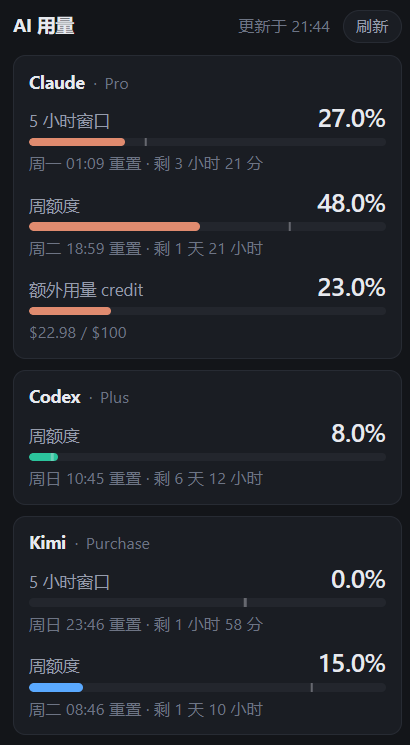
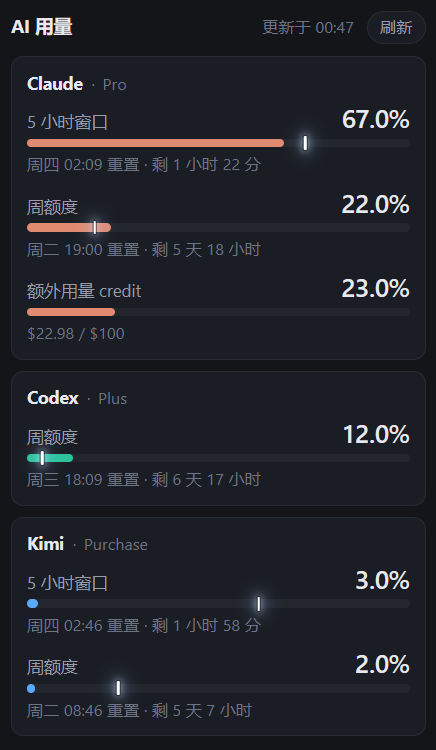
feat(web): 节奏刻度改成发光指针，并在 README 里挑明它是主功能
节奏刻度是整个面板存在的理由，却是 opacity: 0.34 的一根 2px 细线——最该
被拿来对比的东西反而最难看清。现在：芯不透明、两端各探出条外 2px 像卡尺
刻线，一圈贴身描边保证压在品牌色填充上不糊，外面两层 box-shadow 散成光晕，
深色下是真发光、浅色下是抬起来的投影。

几个刻意的取舍：
- 仍用墨色而非红色。红在这个面板里已经专指「用量 ≥90%」，再来一个含义
  不同的红，两个信号都会变钝。
- 深色下的描边压得很淡。那里芯与背景本就极限对比，描边太重会卡在芯和
  光晕中间把辉光掐断。
- 没有加脉冲动画。常驻小窗里余光有东西一直动很累人。
- .bar 不再写 overflow: hidden，否则探出和光晕会被整个裁掉；填充自带满
  圆角，本来也溢不出去。这条在 CSS 里留了注释，别改回去。

顺带修一个会让上面这些改动「看起来没生效」的问题：静态资源补上
Cache-Control: no-cache。面板是常驻的 Chrome --app 窗口，会直接吃内存缓存、
普通刷新都不回源，导致样式明明已经在磁盘上、HTTP 响应也对，窗口里就是不变。
回环地址上缓存静态文件本来也没什么好省的。

README（中英双份）把「节奏刻度」从解释细节改成明确的功能主张，加了健康/
超支两种情况的对照图。截图也换成带发光刻度的新版——新图正好抓到 Claude
的 5 小时条没够到刻度、周额度条已经越过，同一个账号两个相反结论，而光看
百分比（67% 和 22%）判断恰好是反的，README 现在就从这个对比开讲。

测试 69 全绿。

diff --git a/web/style.css b/web/style.css
@@ -16,7 +16,10 @@
   --fill: #5b6ee8;       /* 正常档兜底：冷静的靛蓝（各家用下面的品牌色覆写） */
   --fill-warn: #c98229;  /* ≥70% */
   --fill-danger: #cf4d63;/* ≥90% */
-  --pace: #1b1d23;
+  --pace: #0e1015;                          /* 刻度的芯，比正文再深一点 */
+  --pace-rim: rgba(255, 255, 255, 0.95);    /* 贴身描边：压在品牌色填充上也不糊 */
+  --pace-halo: rgba(14, 16, 21, 0.42);      /* 内层光晕（浅色下是投影，不是发光） */
+  --pace-halo-soft: rgba(14, 16, 21, 0.20); /* 外层光晕，散得更开 */
   --focus: #5b6ee8;
 
   --radius: 10px;
@@ -43,7 +46,13 @@
     --fill: #8b96f2;
     --fill-warn: #dda44f;
     --fill-danger: #e6788c;
-    --pace: #e7e9ee;
+    /* 深色下才是真发光：芯拉到纯白，光晕带一丝冷调，像自己在亮。
+       描边刻意压到很淡——深色下芯与背景本就极限对比，描边太重反而会卡在
+       芯和光晕中间把辉光掐断，只需留一点点压住品牌色填充即可。 */
+    --pace: #ffffff;
+    --pace-rim: rgba(10, 12, 16, 0.45);
+    --pace-halo: rgba(216, 231, 255, 0.62);
+    --pace-halo-soft: rgba(148, 190, 255, 0.34);
     --focus: #8b96f2;
   }
 
@@ -219,12 +228,13 @@ main {
 }
 
 /* 进度条：轨道 + 填充 + 节奏刻度 */
+/* 注意：这里刻意不写 overflow: hidden——节奏刻度要探出条外、还要向外发光，
+   一旦裁剪就全没了。填充自己带满圆角，本来也溢不出去。 */
 .bar {
   position: relative;
   height: 7px;
   border-radius: 999px;
   background: var(--track);
-  overflow: hidden;
 }
 
 .bar-fill {
@@ -242,17 +252,23 @@ main {
   background: var(--fill-danger);
 }
 
-/* 节奏刻度：时间窗口已过去的比例。
-   填充越过它 = 消耗快于额度回补速度。 */
+/* 节奏刻度：时间窗口已过去的比例。填充越过它 = 消耗快于额度回补速度。
+   整个面板唯一一处张扬的地方——它是拿来"对比"的，看不清就没有意义：
+   芯不透明、两端各探出 2px 像卡尺的刻线，三层 box-shadow 从贴身描边散成光晕。
+   颜色仍用墨色而非红色：红在这个面板里已经专指"用量 ≥90%"，
+   再来一个含义不同的红会让信号打架。 */
 .pace {
   position: absolute;
-  top: -1px;
-  bottom: -1px;
+  top: -2px;
+  bottom: -2px;
   width: 2px;
   border-radius: 1px;
   background: var(--pace);
-  opacity: 0.34;
   transform: translateX(-1px);
+  box-shadow:
+    0 0 0 1px var(--pace-rim),
+    0 0 6px 1px var(--pace-halo),
+    0 0 14px 4px var(--pace-halo-soft);
 }
 
 .window-reset {

diff --git a/server/main.py b/server/main.py
@@ -124,7 +124,15 @@ def create_app(cfg: Config | None = None) -> FastAPI:
             await poller.refresh(None)
         return summary_payload()
 
-    app.mount("/static", StaticFiles(directory=WEB_DIR), name="static")
+    # 面板是常驻窗口，改完样式要能立刻看见。Chrome 的 --app 窗口会直接吃内存缓存、
+    # 普通刷新都不回源，所以显式要求每次都revalidate——本来就是回环地址，不费什么。
+    class NoCacheStatic(StaticFiles):
+        def file_response(self, *args, **kwargs):
+            resp = super().file_response(*args, **kwargs)
+            resp.headers["Cache-Control"] = "no-cache"
+            return resp
+
+    app.mount("/static", NoCacheStatic(directory=WEB_DIR), name="static")
     return app
 
 

diff --git a/README.md b/README.md
@@ -17,23 +17,43 @@ reads all three and puts them in one always-there panel.
 
 <p align="center">
   <img src="docs/panel-dark.png" width="380"
-       alt="The ai-usage panel in dark mode: three cards, one per provider. Claude Pro shows a 5-hour window at 27%, weekly at 48%, and a $22.98/$100 extra-credit pool at 23%. Codex Plus shows weekly at 8%. Kimi shows a 5-hour window at 0% and weekly at 15%. Each bar carries a faint vertical tick marking how much of the time window has elapsed.">
+       alt="The ai-usage panel in dark mode: three cards, one per provider. Claude Pro shows a 5-hour window at 67%, weekly at 22%, and a $22.98/$100 extra-credit pool at 23%. Codex Plus shows weekly at 12%. Kimi shows a 5-hour window at 3% and weekly at 2%. Each bar carries a glowing vertical tick marking how much of the time window has elapsed: Claude's 5-hour bar stops short of its tick, while its weekly bar has crossed it.">
 </p>
 
 > The UI is currently Chinese-only. See [Status](#status).
 
-Every bar above sits to the left of its tick, which means all three have room to spare.
-That tick is the thing worth explaining.
+Look at Claude in that shot. The 5-hour bar stops short of its tick, so there is room to
+keep working. The weekly bar has edged past its own tick, so that budget is running ahead
+of schedule. Same account, same moment, two different answers — and the percentages alone
+(67% and 22%) would have told you the opposite. That tick is the thing worth explaining.
 
 ## The pace tick
 
-That thin vertical line is the whole point. It marks **how much of the time window has
-already elapsed**.
+**This is the feature.** Everything else in this repo is plumbing that exists to draw it.
 
-If your usage bar is to the left of it, you're spending slower than the window refills and
-you can keep going. If the bar crosses it, you're on track to run out early. A plain
-percentage tells you what you spent. The pace tick tells you whether you can keep spending
-it that way — which is the question you actually have at 2pm on a Wednesday.
+That glowing vertical line marks **how much of the time window has already elapsed**. You
+read your usage bar against it:
+
+```
+weekly   ███████████████████░░░░░░░░░░░┃░░░░░░░░░   48% used, 78% of the week gone
+                                                    left of the tick — room to spare
+
+5-hour   █████████████┃██████████░░░░░░░░░░░░░░░░   61% used, 34% of the window gone
+                                                    past the tick — burning it early
+```
+
+Left of the tick, you are spending slower than the window refills and you can keep going.
+Past it, you are on track to run out before the reset — and the further past, the earlier
+you hit the wall.
+
+A plain percentage tells you what you have spent. The pace tick tells you whether you can
+keep spending it that way, which is the question you actually have at 2pm on a Wednesday.
+
+It is drawn as a lit needle that overshoots the bar at both ends, with a contrast rim so it
+stays crisp where it crosses the coloured fill. That is the one loud thing in an otherwise
+restrained panel, on purpose: a marker you have to squint at is a marker you will not use.
+It stays ink-coloured rather than red, because red already means "≥90% used" here and a
+second red with a different meaning would blunt both.
 
 ## What it does not do
 

diff --git a/docs/README.zh-CN.md b/docs/README.zh-CN.md
@@ -16,18 +16,35 @@
 
 <p align="center">
   <img src="panel-dark.png" width="380"
-       alt="深色模式下的 ai-usage 面板：三张卡片各对应一家。Claude Pro 的 5 小时窗口 27%、周额度 48%、额外用量 credit 23%（$22.98 / $100）；Codex Plus 周额度 8%；Kimi 的 5 小时窗口 0%、周额度 15%。每根进度条上都有一道浅色竖线，标出时间窗口已经过去的比例。">
+       alt="深色模式下的 ai-usage 面板：三张卡片各对应一家。Claude Pro 的 5 小时窗口 67%、周额度 22%、额外用量 credit 23%（$22.98 / $100）；Codex Plus 周额度 12%；Kimi 的 5 小时窗口 3%、周额度 2%。每根进度条上都有一道发光竖线，标出时间窗口已经过去的比例：Claude 的 5 小时条还没够到刻度，周额度条则已经越过。">
 </p>
 
-上图里每根条都落在自己那道竖线左边，说明三家都还有余量。那道竖线才是重点。
+看上图里的 Claude：5 小时窗口那根条还没够到刻度，说明还能接着用；周额度那根却已经越过了
+自己的刻度，说明这笔预算花超前了。同一个账号、同一时刻，两个相反的结论——而光看百分比
+（67% 和 22%）你得到的判断恰好是反的。那道竖线才是重点。
 
 ## 节奏刻度
 
-那道细竖线是这个面板存在的理由。它标出的是**时间窗口已经过去了多少**。
+**这就是这个面板的功能本体**，仓库里其余部分都是为了把它画出来而存在的管道。
 
-用量条落在它左边，说明你花得比额度回补更慢，可以继续用；越过它，说明照这个速度会提前
-用完。光看百分比只能知道「我用了多少」，节奏刻度回答的是「我还能不能这么用」——
-周三下午两点你真正想知道的是后面这个问题。
+那道发着光的竖线标出的是**时间窗口已经过去了多少**。用量条要拿它当尺子来读：
+
+```
+周额度   ███████████████████░░░░░░░░░░░┃░░░░░░░░░   用了 48%，这周过去了 78%
+                                                    落在刻度左边——还有余量
+
+5 小时   █████████████┃██████████░░░░░░░░░░░░░░░░   用了 61%，窗口才过去 34%
+                                                    越过了刻度——在提前烧
+```
+
+落在刻度左边，说明你花得比额度回补更慢，可以继续用；越过它，说明照这个速度会在重置前
+用完，而且越过越多、撞墙越早。光看百分比只能知道「我用了多少」，节奏刻度回答的是
+「我还能不能这么用」——周三下午两点你真正想知道的是后面这个问题。
+
+它被画成一根两端探出条外的发光指针，还带一圈描边，压在品牌色填充上也不会糊掉。
+这是整个克制的面板里唯一张扬的一处，而且是刻意的：**要眯着眼才能看清的刻度，等于没有**。
+它仍用墨色而不用红色——红在这里已经专指「用量 ≥90%」，再来一个含义不同的红，
+两个信号都会变钝。
 
 进度条在正常档用各家的品牌色区分（Claude 珊瑚橙 / Codex 青绿 / Kimi 蓝），
 但到了 70% 和 90% 一律切换成统一的警戒色——那两档是状态信号，不让品牌色盖掉。

diff --git a/CHANGELOG.md b/CHANGELOG.md
@@ -32,14 +32,35 @@ the logs said why.
 
 ### Fixed
 
+- **Static assets are served with `Cache-Control: no-cache`.** The panel is a long-lived
+  Chrome `--app` window, which serves CSS out of its in-memory cache and does not
+  revalidate on an ordinary reload — so a style change could be live on disk, correct in
+  the HTTP response, and still invisible in the widget until a hard reload. Over loopback
+  there is nothing to gain from caching it.
 - Corrected the `KimiProvider` docstring, which claimed the provider "禁止走代理" on the
   strength of `trust_env=False`. That flag only means environment proxy variables are
   ignored — a proxy running in TUN mode intercepts at the IP layer, where this module has
   no visibility. The network behaviour is unchanged; only the claim was wrong.
 
+- **The pace tick is now lit.** It was a 2px line at `opacity: 0.34`, which made the one
+  element the panel is built around the hardest thing on it to see — and it is meant to be
+  compared against, at a glance, in a small window. It now has an opaque core that
+  overshoots the bar by 2px at each end, a contrast rim so it stays crisp where it crosses
+  the brand-coloured fill, and a two-layer halo that reads as a genuine glow in dark mode
+  and as a lifted shadow in light mode. It stays ink-coloured rather than red: red already
+  means "≥90% used" here, and a second red carrying a different meaning would blunt both.
+  Note that `.bar` deliberately no longer sets `overflow: hidden` — it would clip both the
+  overshoot and the halo. In dark mode the rim is kept deliberately faint: the core is
+  already at maximum contrast there, and a heavy rim sits between core and halo and chokes
+  the glow.
+
 ### Notes
 
 - 69 offline tests, including coverage of the new backoff schedule.
+- `docs/panel-dark.png` retaken with the lit tick. The new shot happens to catch Claude
+  with its 5-hour bar short of the tick and its weekly bar past it — one account, two
+  opposite readings — so the README now opens on that contrast instead of the old
+  "everything has room to spare" shot.
 
 ## [0.2.0] — 2026-07-27
 
